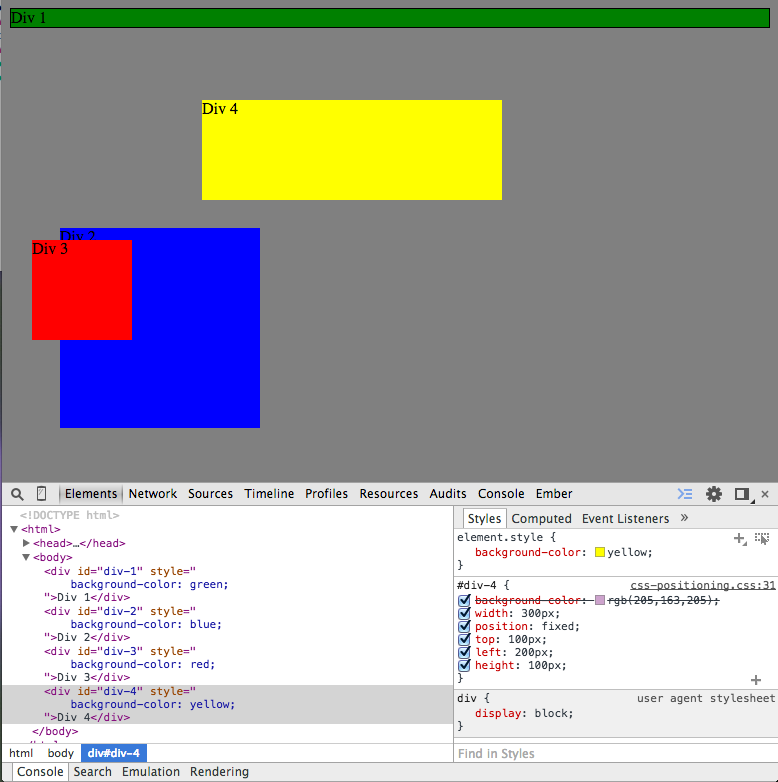
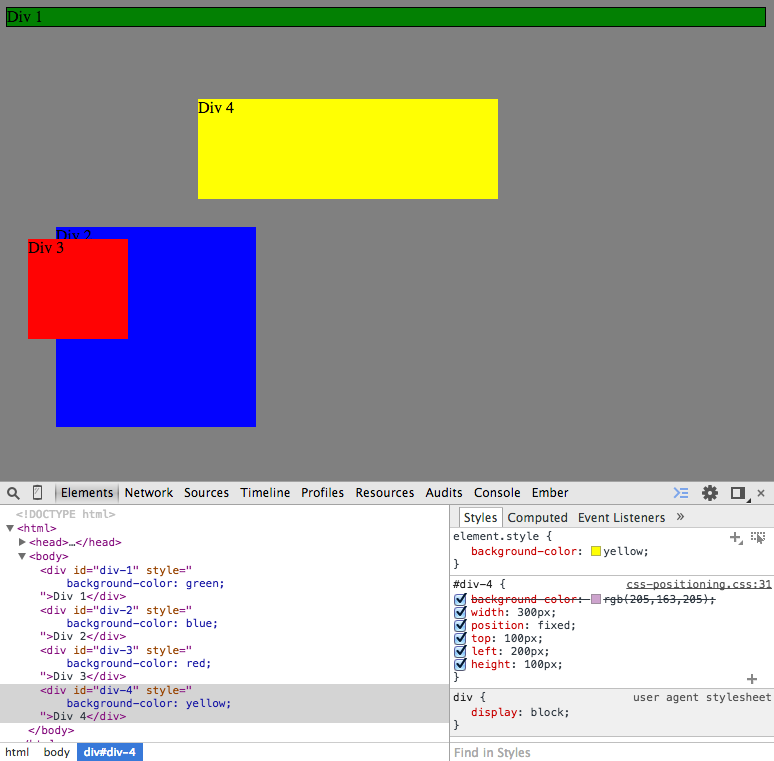
adjusting size

diff --git a/week-2/7-chrome-devtools/README.md b/week-2/7-chrome-devtools/README.md
@@ -29,45 +29,45 @@ NOTE: A lot of learning CSS is trial and error. That's OK. If you are afraid you
 
 ### Exercises
 The original file should look like this:
-![original](../imgs/devtools-original.png)
+![original](../imgs/devtools-original.png =400x403)
 
 #### 1. Change the Colors
 Change the background-color of the boxes. To do this, in the css section type "background-color". You'll then see a list of colors - select your favorite for each box! After you take your screenshot, refresh the page.
-![background-color](../imgs/devtools-colors.png)
+![background-color](../imgs/devtools-colors.png =400x393)
 
 #### 2. Column
 Stack the elements in top of one another without any space between them (in order). You can do this, simply by removing existing CSS.
-![background-column](../imgs/devtools-column.png)
+![background-column](../imgs/devtools-column.png =400x249)
 
 #### 3. Row
 Put the boxes in a row. Have them keep their original shape and size. HINT: Look at the [CSS Display](http://www.w3schools.com/cssref/pr_class_display.asp) property.
-![row](../imgs/devtools-row.png)
+![row](../imgs/devtools-row.png =400x193)
 
 #### 4. Make Equidistant
 Put the boxes in a row. The sizes should be identical automatically. Put 5em of distance between them. Then add 5em from the top of the page.<br>
-![equal distance](../imgs/devtools-equal.png)
+![equal distance](../imgs/devtools-equal.png =400x140)
 
 #### 5. Squares
 Resize the boxes so they are squares (I used 5em).<br>
-![squares](../imgs/devtools-squares.png)
+![squares](../imgs/devtools-squares.png =266x400)
 
 #### 6. Footer
 - Make `div-1` a footer. Make the height 2em, the width 100% of the screen (Get rid of that annoying gray to the left). Then move it to the bottom of the page. No matter what, this div should always stay at the bottom. HINT: review the [CSS Position](http://www.w3schools.com/cssref/pr_class_position.asp) property.
-![footer](../imgs/devtools-footer.png)
+![footer](../imgs/devtools-footer.png =400x220)
 
 #### 7. Header
 - Now move `div-2` to the top of the page and make it 5em tall. It should always be at the top of the browser window. Make the width 50% of the entire screen and center it.
-![top](../imgs/devtools-header.png)
+![top](../imgs/devtools-header.png =400x158)
 
 #### 8. Sidebar
 - Move `div-3` to the right so it looks like a right sidebar it should be 15% the width of the screen and 100% of the height of the viewer window. You'll want to get help from Google on this one.
-![sidebar](../imgs/devtools-sidebar.png)
+![sidebar](../imgs/devtools-sidebar.png =400x158)
 
 #### 9. Get Creative
 - Remove all of the size and positioning elements. They should stack on top like rows. Then, design and implement your own configuration. Practice using margin, border, and padding to determine how they are different. You may want to read up on this a bit.
 
 Here is my example (You can do anything you want).
-![personal](../imgs/devtools-personal.png)
+![personal](../imgs/devtools-personal.png =400x269)
 
 Upload each of your images into the week-2 [imgs](../imgs) directory and display them inline.
 
